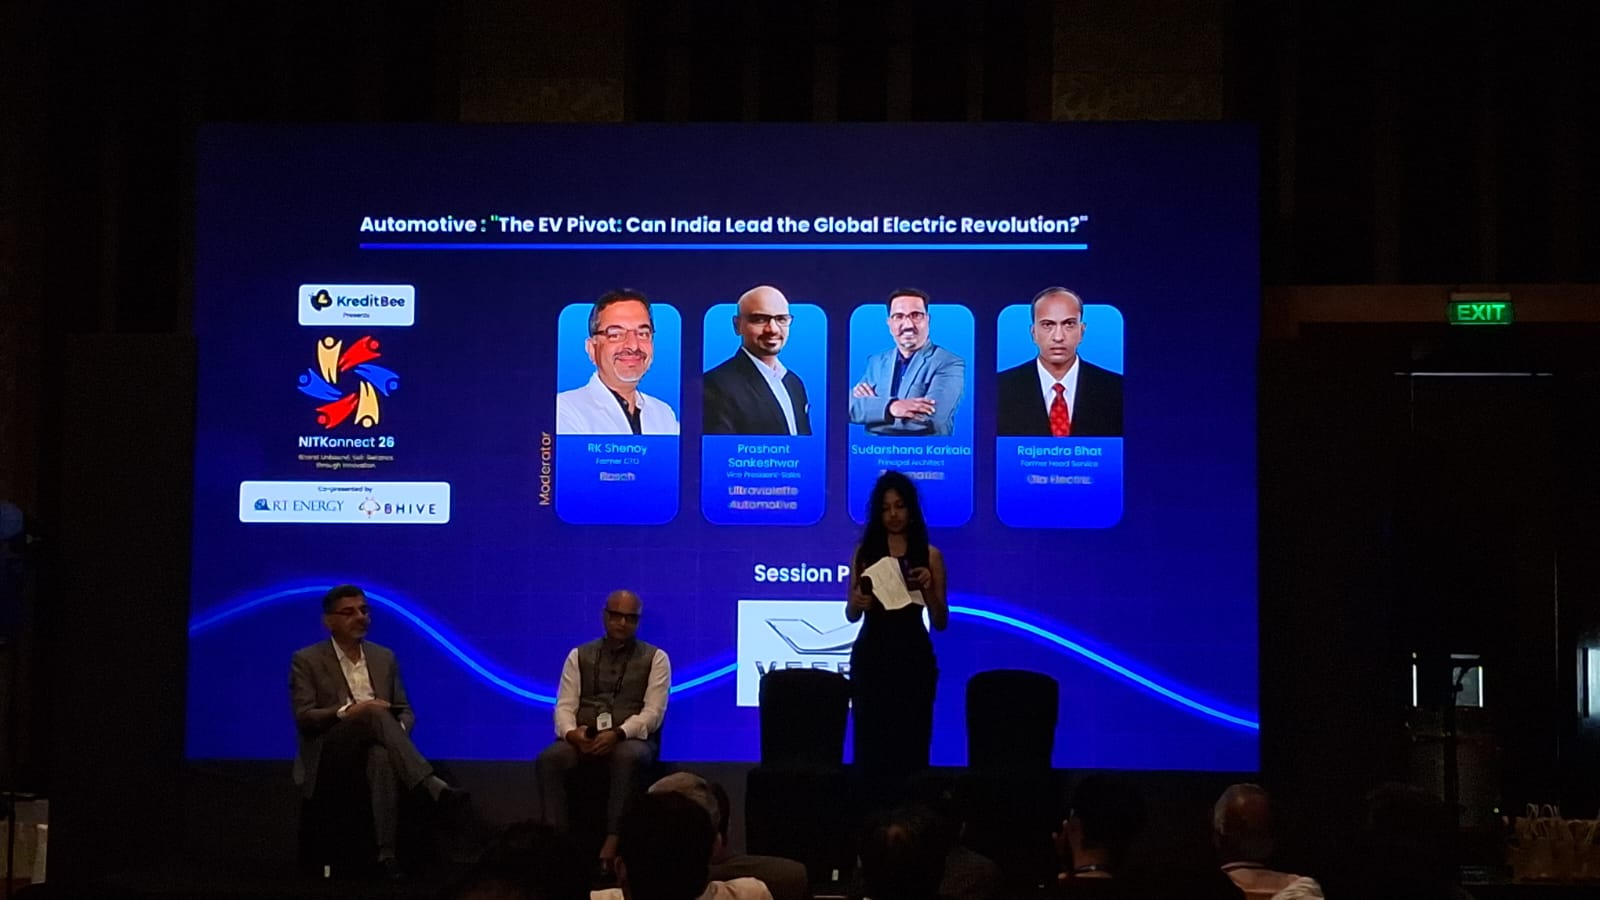
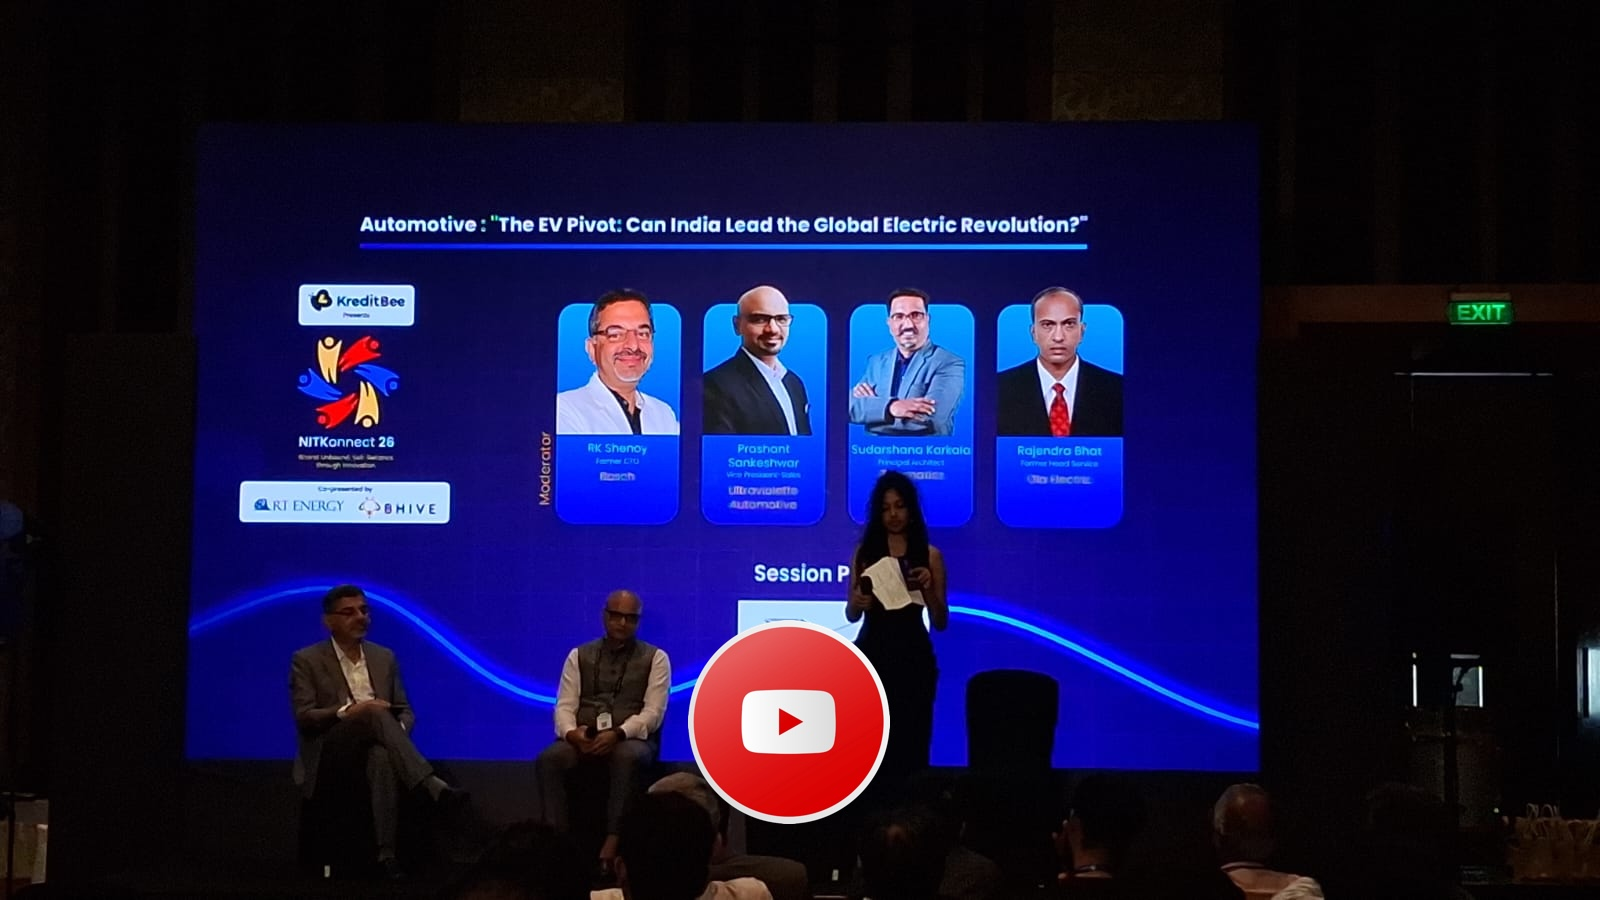
Updated

Changed region(s): [[0.4062, 0.6844, 0.5625, 0.9333]]

diff --git a/index.html b/index.html
@@ -1629,6 +1629,9 @@
       <a href="https://www.youtube.com/watch?v=8sdsBEmi6B0&t=306s" target="_blank">
         <img src="img/bg/sudarshana_karkala.jpg" class="img-fluid" alt="">
       </a>
+      <a href="https://www.youtube.com/watch?v=qQO3AoY-hVU&t=261s" target="_blank">
+        <img src="img/bg/sudarshana_karkala_evend3.jpg" class="img-fluid" alt="">
+      </a>
       <a href="https://www.youtube.com/watch?v=gtQfkFySRIw" target="_blank">
         <img src="img/NITKonnect2026/NITKonnect Panel Discussion.jpeg" class="img-fluid" alt="">
       </a>
